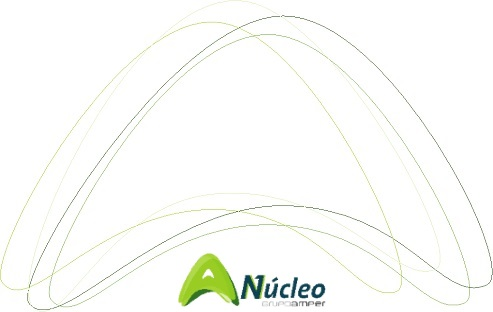
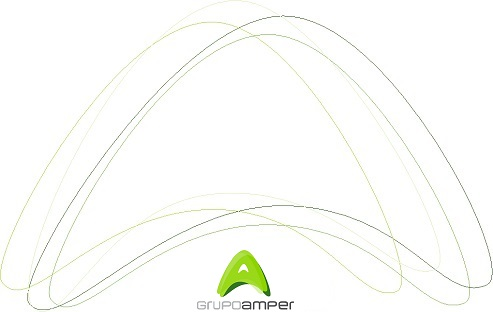
Merged revision(s) 10234 from Ulises5000I/branches/u5kiv.2.6.2/ulises-man: Versión liberada para las pruebas de Sp1 y Sp2. Se han etiquetado los ficheros como 2.6.2.002 Se han cambiado los directorios de instalación de los programas MCAST, NBX y Puesto => UlisesV5000.
........

git-svn-id: http://10.34.58.18/svn/svn_repository/Ulises5000I/branches/agl-dev/ulises-man@10260 b1d50d5f-df8f-9249-af92-6a0d583c2fd7

Changed region(s): [[0.3651, 0.7788, 0.6694, 1.0]]

diff --git a/U5kManServer/appweb/disabled.html b/U5kManServer/appweb/disabled.html
@@ -1,85 +1,71 @@
 <!DOCTYPE html>
-<html >
+<html>
 <head>
-    <meta name="generator"
-        content="HTML Tidy for HTML5 (experimental) for Windows https://github.com/w3c/tidy-html5/tree/c63cc39" />
-    <meta charset="windows-1252" />
-    <meta name="description" content="Plantilla Ulises 5000" />
-    <meta name="keywords" content="HTML5, CSS3, JavaScript" />
-    <title>ULISES V 5000 I. Aplicacion de Mantenimiento</title>
-	<style>
-		.cab {}
-		.cab-izq 
-		{
-			border: 1px solid #C1022C;
-			float: left;
-			height: 70px;
-			width: 18%;
-		}
-		.cab-cen
-		{
-			border: 1px solid #C1022C;
-			float: left;
-			height: 70px;
-
-			width: 60%;
-			text-align: center;
-			margin-left: 1%;
-			font-size: 150%;
-			color: #C1022C;				
-		}
-		.cab-der
-		{
-			border: 1px solid #C1022C;
-			float: left;
-			height: 70px;
-
-			width: 19%;
-			margin-left: 1%;
-		}
-		.cont 
-		{
-			float: left;
-			width: 98%;			
-			text-align: center;
-			margin-top: 1em;
-			margin-bottom: 1em;
-		}
-		.pie
-		{
-			float: left;
-			text-align: center;
-			color: #C1012C;
-			font-weight: bold;
-			width: 99%;
-			border: 1px solid #C1012C;
-		}
-
-	</style>
+	<meta name="generator"
+		  content="HTML Tidy for HTML5 (experimental) for Windows https://github.com/w3c/tidy-html5/tree/c63cc39" />
+	<meta charset="windows-1252" />
+	<meta name="description" content="Plantilla Ulises 5000" />
+	<meta name="keywords" content="HTML5, CSS3, JavaScript" />
+	<title>ULISES V 5000 I. Aplicacion de Mantenimiento</title>
+	<link rel="stylesheet" href="./styles/bootstrap/bootstrap.min.css" />
+	<link rel="stylesheet" href="./styles/uv5ki-styles.css" />
 </head>
 <body>
-	<div class="cab">
-		<div class="cab-izq">
[1 lines of base64/hex data omitted]
-		</div>
-		<div class="cab-cen">
-			<p >ULISES V 5000 I. Aplicacion de Mantenimiento</p>
-		</div>
-		<div class="cab-der">
-		</div>
-	</div>
-	<div class = "cont">
[1 lines of base64/hex data omitted]
-					height="128" width="128"/>
-        <h2>Servicio WEB no Habilitado</h2>
-		<h3>{{cause}}</h3>
-	</div>
-	<div class = "pie">
-		<p>DF Nucleo Copyright @ 2015-2019. Todos los Derechos Reservados</p>
-	</div>
-	
-    <script>	
-    </script>
+	<div id="agrupar">
+		<header id="cabecera">
+			<div id="_contSupIzq">
+				<div id="_logo">
+					<!-- <img src="./images/nucleo-df-new.jpg" /> -->
+					<!--<img src="./images/corporativo.png" height="85%" />-->
+					<img src="./images/corporativo-a.png" height="85%" />
+				</div>
+			</div>
+			<div id="_tit_ppal">
+				<span lang="es">ULISES V 5000 I. Aplicacion de Mantenimiento</span>
+				<span lang="en">ULISES V 5000 I. Maintenance Application</span>
+				<span lang="fr">ULISES V 5000 I. Maintenance Applicative</span>
+			</div>
+			<div id="_contSupDrcha">
+			</div>
+		</header>
+
+		<section id="_ppalerror">
+			<div id="img">
+				<img src="./images/noaccess.jpg" height="128" width="128" />
+			</div>
+			<h2>
+				<span lang="es">Servicio WEB no Habilitado !!</span>
+				<span lang="en">WEB service Disabled !!</span>
+				<span lang="fr">WEB service Disabled !!</span>
+			</h2>
+		</section>
+
+		<footer id="_pie">
+			<span lang="es">Grupo Amper Copyright @ 2015-2022. Todos los Derechos Reservados</span>
+			<span lang="en">Grupo Amper Copyright @ 2015-2022. All rights reserved</span>
+			<span lang="fr">Grupo Amper Copyright @ 2015-2022. Tous droits reserves</span>
+		</footer>
+
+		<script src="./scripts/jquery/jquery-2.1.3.min.js"></script>
+		<script>
+			$(document).ready(function () {
+
+				var userLang = navigator.languages[0];
+				var language = userLang.indexOf("en") == 0 ? "en" : userLang.indexOf("fr") == 0 ? "fr" : "es";
+
+				$("[lang]").each(function () {
+					if ($(this).attr("lang") == language)
+						$(this).show();
+					else
+						$(this).hide();
+				});
+
+			});
+		</script>
+</body>
+
+<script>
+</script>
 </body>
 </html>
 

diff --git a/U5kManServer/appweb/error.html b/U5kManServer/appweb/error.html
@@ -42,9 +42,9 @@
         </section>
 
         <footer id="_pie">
-            <span lang="es">Nucleo Copyright @ 2015-2019. Todos los Derechos Reservados</span>
-            <span lang="en">Nucleo Copyright @ 2015-2019. All rights reserved</span>
-            <span lang="fr">Nucleo Copyright @ 2015-2019. Tous droits reserves</span>
+            <span lang="es">Grupo Amper Copyright @ 2015-2022. Todos los Derechos Reservados</span>
+            <span lang="en">Grupo Amper Copyright @ 2015-2022. All rights reserved</span>
+            <span lang="fr">Grupo Amper Copyright @ 2015-2022. Tous droits reserves</span>
         </footer>
 
         <script src="./scripts/jquery/jquery-2.1.3.min.js"></script>

diff --git a/U5kManServer/appweb/noserver.html b/U5kManServer/appweb/noserver.html
@@ -43,9 +43,9 @@
         </section>
 
         <footer id="_pie">
-            <span lang="es">Nucleo Copyright @ 2015-2019. Todos los Derechos Reservados</span>
-            <span lang="en">Nucleo Copyright @ 2015-2019. All rights reserved</span>
-            <span lang="fr">Nucleo Copyright @ 2015-2019. Tous droits reserves</span>
+            <span lang="es">Grupo Amper Copyright @ 2015-2022. Todos los Derechos Reservados</span>
+            <span lang="en">Grupo Amper Copyright @ 2015-2022. All rights reserved</span>
+            <span lang="fr">Grupo Amper Copyright @ 2015-2022. Tous droits reserves</span>
         </footer>
 
         <script src="./scripts/jquery/jquery-2.1.3.min.js"></script>
